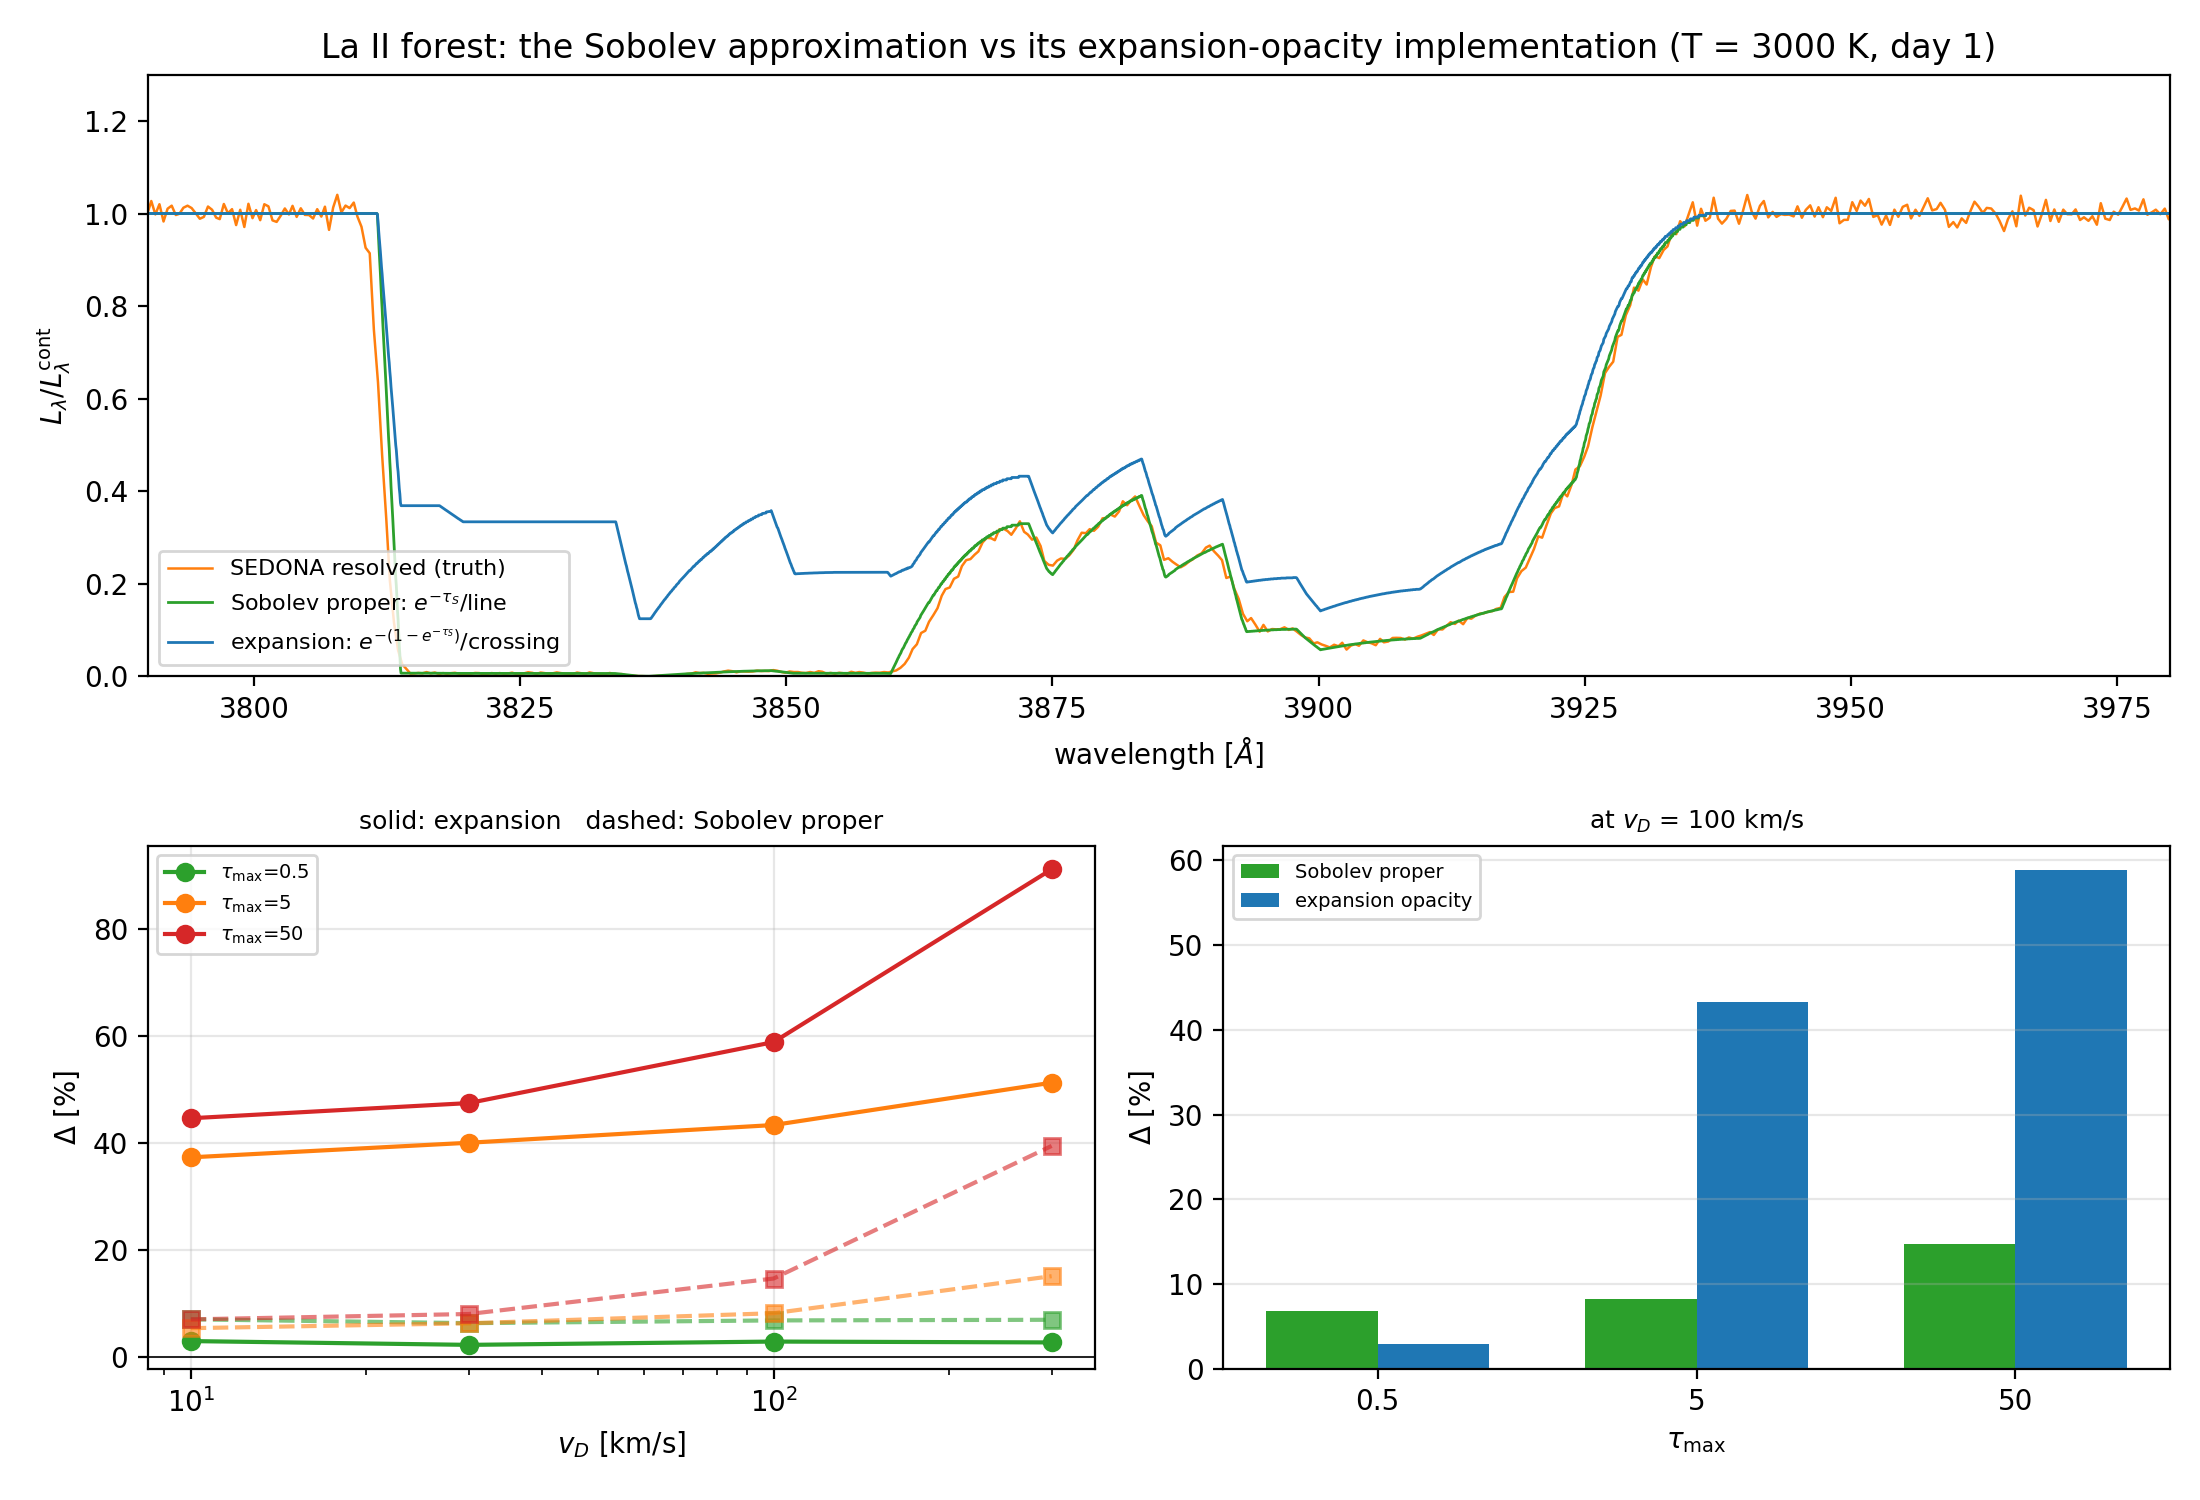
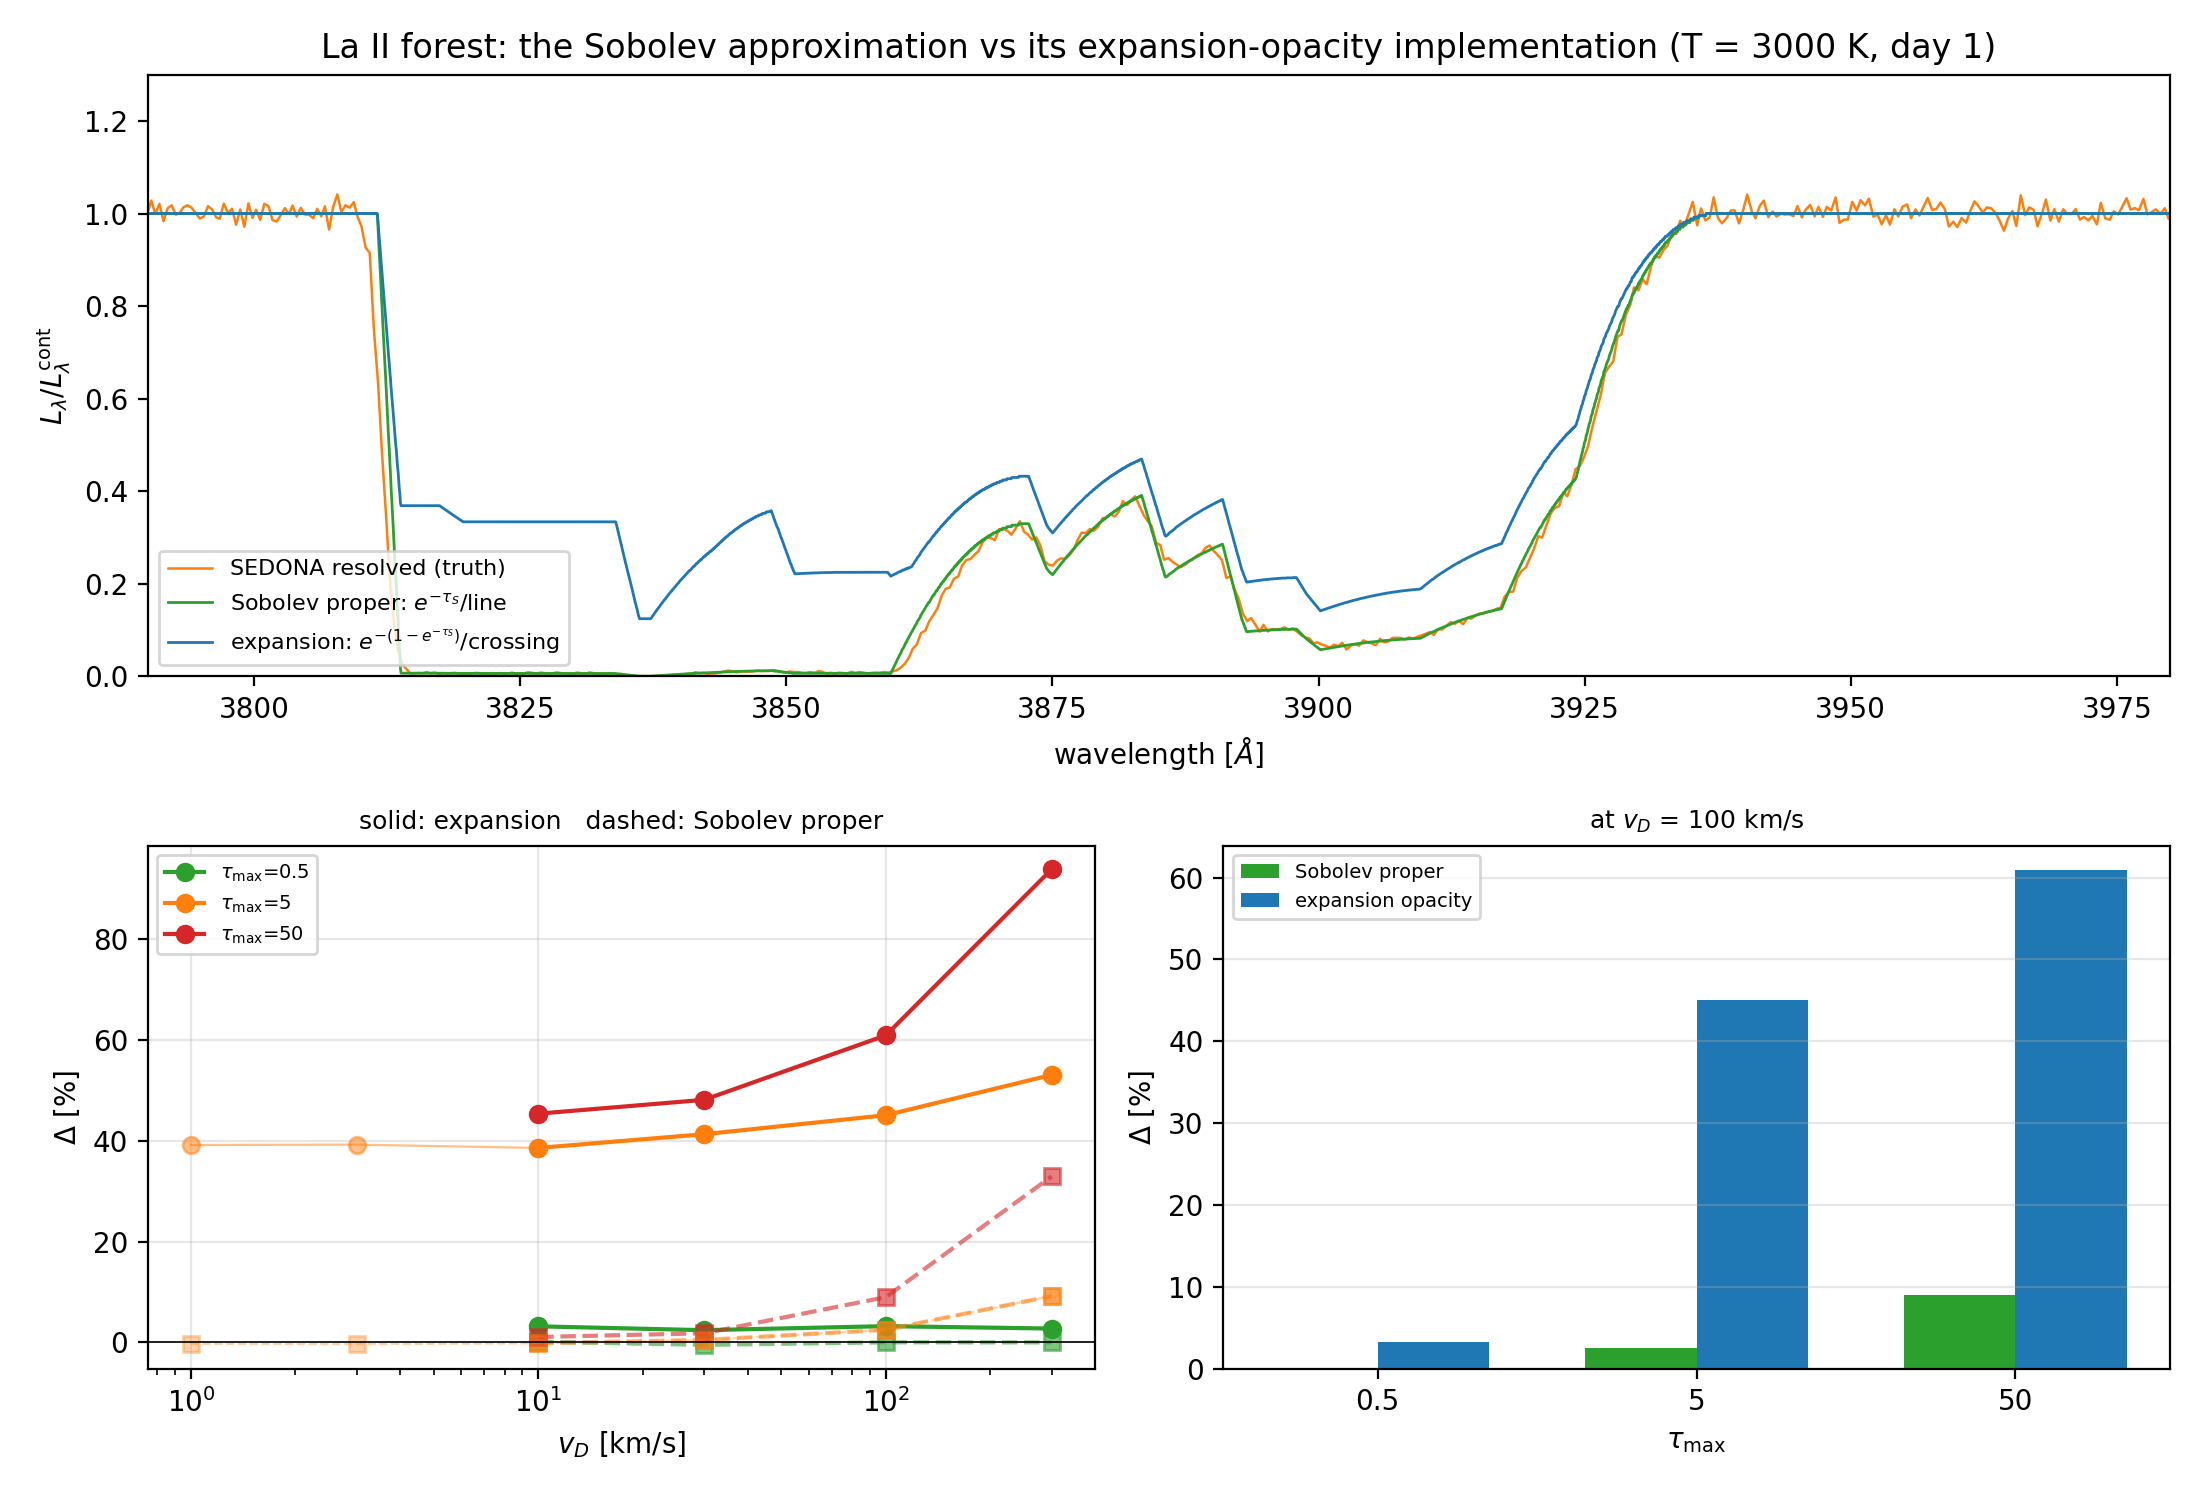
fix: Figure 10 was still plotting the retracted Sobolev floor
The figure showed the ~5-8% v_D-independent Sobolev error that Section 5
explicitly retracts as a normalization artifact -- printed opposite the
paragraph retracting it. Its dashed curves sat at 7-8% for all three
tau_max where the corrected values are +0.2%, -0.2%, +1.1%.

Root cause: compare.py built the figure by recomputing from
sweep_results.json, which is normalized by raw luminosity rather than
through sobolev.spectra.band_ratio. When recompute_all.py corrected the
numbers, the figure kept its own private copy of the wrong ones. Re-running
compare.py would also have silently overwritten separation_results.json with
pre-fix values.

Figure generation now lives in recompute_all.py next to the data it plots,
so the two cannot diverge; compare.py no longer writes either.

Also reconciled the two pipelines that produced the same measurement twice
with different values two pages apart. The temperature axis and the La II
forest three-leg table are now recomputed through the shared convention:

  validity map, Delta_exp at tau_max=5   was +37.3..+51.2  now +38.5..+53.0
  forest, SEDONA resolved                was 0.3426        now 0.3435
  forest, solver (emission off)          was 0.3390        now 0.3439

The last one matters: like for like, the two independent codes now agree to
0.1% on the La II forest rather than 1.0%, inside the measured Monte Carlo
noise. The old red margin straddled SEDONA's collapsing final bin -- the
same bug Section 8 documents.

diff --git a/experiments/sobolev_proper/recompute_all.py b/experiments/sobolev_proper/recompute_all.py
@@ -77,6 +77,24 @@ for vd, rb, re in ((1, "tsweep_T3000_vd1_bb", "tsweep_T3000_vd1_exp"),
                          d_sob=(f_sob5 - fb) / fb, d_exp=(fe - fb) / fb))
     print(f"{vd:4d} | {fb:10.4f} {(f_sob5-fb)/fb:+10.1%} {(fe-fb)/fb:+12.1%}")
 
+print("\n=== temperature axis (v_D = 100, strength pinned) ===")
+print("   T | F_resolved  D_expansion   old")
+# The T axis fed the validity map from tsweep_results.json, which was written
+# with the raw-luminosity normalization. D_exp is a same-code differential so
+# the bias largely cancels, but "largely" is not "exactly", and having one
+# table in the paper sourced from a different pipeline than the table beside
+# it is how the two disagreed by up to 2.7 points. Recompute it here.
+old_t = [x for x in old_all if x.get("axis") == "T"] if (
+    old_all := json.loads((FOREST / "tsweep_results.json").read_text())) else []
+t_axis = []
+for t in (2500, 3000, 4000, 5000):
+    fb_t, fe_t = sedona(f"tsweep_T{t}_bb"), sedona(f"tsweep_T{t}_exp")
+    o = [x for x in old_t if x["T"] == float(t)]
+    d = (fe_t - fb_t) / fb_t
+    t_axis.append(dict(T=t, v_d=100, f_res=fb_t, f_exp=fe_t, d_exp=d))
+    print(f"{t:5d} | {fb_t:10.4f} {d:+12.1%} {o[0]['delta_sob']:+8.1%}"
+          if o else f"{t:5d} | {fb_t:10.4f} {d:+12.1%}")
+
 # headline forest condition
 fb = sedona("run_bb"); fe = sedona("run_exp")
 print(f"\n=== La II forest headline (v_D = 100 km/s, tau_max = 5) ===")
@@ -85,6 +103,94 @@ print(f"  Sobolev proper   {f_sob5:.4f}   Delta = {(f_sob5-fb)/fb:+.1%}")
 print(f"  expansion        {fe:.4f}   Delta = {(fe-fb)/fb:+.1%}")
 
 (Path(__file__).parent / "separation_results.json").write_text(json.dumps(
-    dict(grid=rows, frontier=frontier,
+    dict(grid=rows, frontier=frontier, t_axis=t_axis,
          headline=dict(res=fb, sob=f_sob5, exp=fe)), indent=1))
 print("\nwrote separation_results.json")
+
+
+# ---------------------------------------------------------------------------
+# Figure, generated HERE from the numbers just computed.
+#
+# It used to live in compare.py, which recomputed everything from
+# sweep_results.json -- the pre-fix file normalized by raw luminosity. So when
+# this script corrected the numbers, the figure kept plotting the retracted
+# ~5-8% "v_D-independent Sobolev floor", and sat in the manuscript directly
+# opposite the paragraph retracting it. Nothing flagged the contradiction
+# because the figure had its own private copy of the data.
+#
+# The figure is therefore built from `rows`/`frontier` in this process. There
+# is no path by which it can disagree with separation_results.json again.
+# ---------------------------------------------------------------------------
+import matplotlib
+matplotlib.use("Agg")
+import matplotlib.pyplot as plt
+
+lam_grid = lam_an
+sob_la = sobolev_attenuation(nu, LINES, R_CORE, R_OUT, T_EXP, N_ION)
+exp_la = sobolev_attenuation(nu, LINES, R_CORE, R_OUT, T_EXP, N_ION,
+                             damp=expansion_damp)
+_, lam_bb, r_bb = band_ratio(FOREST / "run_bb" / "spectrum_1.dat", BAND,
+                             MARGIN, R_CORE, T_CORE, return_spectrum=True)
+
+fig = plt.figure(figsize=(11, 7.5))
+gs = fig.add_gridspec(2, 2, height_ratios=[1.15, 1])
+
+ax = fig.add_subplot(gs[0, :])
+ax.plot(lam_bb, r_bb, "C1", lw=0.9, label="SEDONA resolved (truth)")
+ax.plot(lam_grid, sob_la, "C2", lw=1.0,
+        label=r"Sobolev proper: $e^{-\tau_S}$/line")
+ax.plot(lam_grid, exp_la, "C0", lw=1.0,
+        label=r"expansion: $e^{-(1-e^{-\tau_S})}$/crossing")
+ax.set_xlim(3790, 3980)
+ax.set_ylim(0, 1.3)
+ax.set_xlabel(r"wavelength [$\AA$]")
+ax.set_ylabel(r"$L_\lambda/L_\lambda^{\rm cont}$")
+ax.set_title("La II forest: the Sobolev approximation vs its "
+             "expansion-opacity implementation (T = 3000 K, day 1)")
+ax.legend(fontsize=8, loc="lower left")
+
+ax2 = fig.add_subplot(gs[1, 0])
+for tau, color in [(0.5, "C2"), (5.0, "C1"), (50.0, "C3")]:
+    sel = sorted([r for r in rows if r["tau_max"] == tau],
+                 key=lambda r: r["v_d"])
+    ax2.semilogx([r["v_d"] for r in sel], [100 * r["d_exp"] for r in sel],
+                 "o-", color=color, label=rf"$\tau_{{\max}}$={tau:g}")
+    ax2.semilogx([r["v_d"] for r in sel], [100 * r["d_sob"] for r in sel],
+                 "s--", color=color, alpha=0.6)
+# The frontier extends the tau_max = 5 curves down to the thermal end.
+fr = sorted(frontier, key=lambda r: r["v_d"])
+ax2.semilogx([r["v_d"] for r in fr], [100 * r["d_exp"] for r in fr],
+             "o-", color="C1", alpha=0.5, lw=0.8)
+ax2.semilogx([r["v_d"] for r in fr], [100 * r["d_sob"] for r in fr],
+             "s--", color="C1", alpha=0.35, lw=0.8)
+ax2.set_xlabel(r"$v_D$ [km/s]")
+ax2.set_ylabel(r"$\Delta$ [%]")
+ax2.set_title("solid: expansion   dashed: Sobolev proper", fontsize=9)
+ax2.axhline(0, color="k", lw=0.6)
+ax2.legend(fontsize=7)
+ax2.grid(alpha=0.3)
+
+ax3 = fig.add_subplot(gs[1, 1])
+width, taus = 0.35, [0.5, 5.0, 50.0]
+at_100 = [next(r for r in rows if r["tau_max"] == t and r["v_d"] == 100)
+          for t in taus]
+x = np.arange(len(taus))
+ax3.bar(x - width / 2, [100 * r["d_sob"] for r in at_100], width,
+        color="C2", label="Sobolev proper")
+ax3.bar(x + width / 2, [100 * r["d_exp"] for r in at_100], width,
+        color="C0", label="expansion opacity")
+ax3.set_xticks(x)
+ax3.set_xticklabels([f"{t:g}" for t in taus])
+ax3.set_xlabel(r"$\tau_{\max}$")
+ax3.set_ylabel(r"$\Delta$ [%]")
+ax3.set_title(r"at $v_D$ = 100 km/s", fontsize=9)
+ax3.axhline(0, color="k", lw=0.6)
+ax3.legend(fontsize=7)
+ax3.grid(alpha=0.3, axis="y")
+
+fig.tight_layout()
+for out in (ROOT / "outputs" / "fig10_sobolev_vs_expansion.png",
+            ROOT / "docs/figures" / "fig10_sobolev_vs_expansion.png"):
+    out.parent.mkdir(parents=True, exist_ok=True)
+    fig.savefig(out, dpi=200)
+    print("saved", out)

diff --git a/experiments/sobolev_proper/compare.py b/experiments/sobolev_proper/compare.py
@@ -127,69 +127,23 @@ for r in sweep:
         f"D_exp_ana={rows[-1]['d_exp_ana']:+7.1%} D_exp_sed={rows[-1]['d_exp']:+7.1%}"
     )
 
-(Path(__file__).parent / "separation_results.json").write_text(
-    json.dumps(
-        dict(
-            la_forest=dict(res=F_res, sob=F_sob, exp=F_exp_sed),
-            blend=dict(res=Fm_res, sob=Fm_sob, exp=Fm_exp),
-            sweep=rows,
-        ),
-        indent=1,
-    )
-)
+# NOTE (P1-D): this script no longer writes separation_results.json, and no
+# longer draws Figure 10.
+#
+# It normalizes SEDONA band fluxes the old way -- by raw luminosity rather
+# than through sobolev.spectra.band_ratio -- which is the bug that
+# manufactured the retracted "v_D-independent Sobolev floor" of ~5-8%. When
+# recompute_all.py corrected the numbers, this file kept its own private copy
+# of the wrong ones, kept plotting them, and would have silently overwritten
+# separation_results.json with pre-fix values had anyone re-run it. The stale
+# figure sat in the manuscript directly opposite the paragraph retracting the
+# number it showed.
+#
+# recompute_all.py is the single source of truth for both the JSON and the
+# figure. This script is kept only for its spectrum overlay and blend
+# printout, which do not feed any published number.
+print("\n[compare.py writes no results file and no figure -- "
+      "run recompute_all.py for both]")
 
-# ---------------- figure ----------------
-fig = plt.figure(figsize=(11, 7.5))
-gs = fig.add_gridspec(2, 2, height_ratios=[1.15, 1])
-
-ax = fig.add_subplot(gs[0, :])
-ax.plot(lam_bb, r_bb, "C1", lw=0.9, label="SEDONA resolved (truth)")
-ax.plot(lam_grid, sob_la, "C2", lw=1.0, label=r"Sobolev proper: $e^{-\tau_S}$/line")
-ax.plot(lam_grid, exp_la, "C0", lw=1.0,
-        label=r"expansion: $e^{-(1-e^{-\tau_S})}$/crossing")
-ax.set_xlim(3790, 3980)
-ax.set_ylim(0, 1.3)
-ax.set_xlabel(r"wavelength [$\AA$]")
-ax.set_ylabel(r"$L_\lambda/L_\lambda^{\rm cont}$")
-ax.set_title(
-    "La II forest: the Sobolev approximation vs its expansion-opacity "
-    "implementation (T = 3000 K, day 1)"
-)
-ax.legend(fontsize=8, loc="lower left")
-
-ax2 = fig.add_subplot(gs[1, 0])
-for tau, color in [(0.5, "C2"), (5.0, "C1"), (50.0, "C3")]:
-    sel = sorted([r for r in rows if r["tau_max"] == tau], key=lambda r: r["v_d"])
-    ax2.semilogx([r["v_d"] for r in sel], [100 * r["d_exp"] for r in sel],
-                 "o-", color=color, label=rf"$\tau_{{\max}}$={tau:g}")
-    ax2.semilogx([r["v_d"] for r in sel], [100 * r["d_sob"] for r in sel],
-                 "s--", color=color, alpha=0.6)
-ax2.set_xlabel(r"$v_D$ [km/s]")
-ax2.set_ylabel(r"$\Delta$ [%]")
-ax2.set_title("solid: expansion   dashed: Sobolev proper", fontsize=9)
-ax2.axhline(0, color="k", lw=0.6)
-ax2.legend(fontsize=7)
-ax2.grid(alpha=0.3)
-
-ax3 = fig.add_subplot(gs[1, 1])
-width = 0.35
-taus = [0.5, 5.0, 50.0]
-at_100 = [next(r for r in rows if r["tau_max"] == t and r["v_d"] == 100.0) for t in taus]
-x = np.arange(len(taus))
-ax3.bar(x - width / 2, [100 * r["d_sob"] for r in at_100], width,
-        color="C2", label="Sobolev proper")
-ax3.bar(x + width / 2, [100 * r["d_exp"] for r in at_100], width,
-        color="C0", label="expansion opacity")
-ax3.set_xticks(x)
-ax3.set_xticklabels([f"{t:g}" for t in taus])
-ax3.set_xlabel(r"$\tau_{\max}$")
-ax3.set_ylabel(r"$\Delta$ [%]")
-ax3.set_title(r"at $v_D$ = 100 km/s", fontsize=9)
-ax3.axhline(0, color="k", lw=0.6)
-ax3.legend(fontsize=7)
-ax3.grid(alpha=0.3, axis="y")
-
-fig.tight_layout()
-out = ROOT / "outputs" / "fig10_sobolev_vs_expansion.png"
-fig.savefig(out, dpi=200)
-print("saved", out)
+# The figure that used to be built here now lives in recompute_all.py, next
+# to the data it plots. See the note above.

diff --git a/experiments/laII_forest/recompute_forest.py b/experiments/laII_forest/recompute_forest.py
@@ -1,0 +1,79 @@
+"""Recompute the La II forest three-leg table through the SHARED convention.
+
+The numbers in the manuscript's forest table and in its thermal-emission (F8)
+section were produced by compare.py, which predates sobolev.spectra and
+carries two of the three normalization bugs this project has since found:
+
+  * its red margin is 3952-3978 A, which straddles SEDONA's final spectrum
+    bin -- that bin is partial, its flux collapses, and including it depresses
+    the reference and inflates every band value (the bug of Section 4.9);
+  * it band-averages by dividing by the NOMINAL band width rather than the
+    span actually integrated.
+
+The result was a forest table quoting SEDONA resolved = 0.3426 while the
+separation section, computed through the shared helper, quoted 0.3435 for the
+identical run -- the same measurement printed twice with different values two
+pages apart.
+
+This script recomputes all three legs, plus the F8 emission-off comparison,
+through sobolev.spectra so that every forest number in the paper comes from
+one pipeline. No new transport runs.
+"""
+
+import json
+import sys
+from pathlib import Path
+
+import numpy as np
+
+HERE = Path(__file__).parent
+ROOT = HERE.parents[1]
+sys.path.insert(0, str(ROOT))
+from sobolev.constants import C
+from sobolev.formal_transfer import emergent_luminosity, planck_bnu
+from sobolev.spectra import band_average, band_ratio
+
+T_EXP, R_CORE, R_OUT, T_CORE, T_SHELL = 86400.0, 8.64e12, 2.592e13, 6000.0, 3000.0
+V_D = 1.0e7
+BAND, MARGIN = (3800.0, 3955.0), (3952.0, 3970.0)
+
+d = np.load(HERE / "forest_lines.npz")
+N_ION = float(d["n_ion"])
+LINES = [(C / (lam * 1e-8), f, p)
+         for lam, f, p in zip(d["lam"], d["f_lu"], d["pop"])]
+
+
+def solver(t_shell):
+    """Deterministic resolved leg, band-averaged the shared way."""
+    nu = np.geomspace(7.50e14, 7.95e14, 1600)
+    lum = emergent_luminosity(
+        nu, LINES, lambda r: np.full_like(r, N_ION),
+        lambda r: np.full_like(r, t_shell),
+        T_EXP, R_CORE, R_OUT, T_CORE, V_D, n_impact=150,
+    )
+    ratio = lum / (4.0 * np.pi**2 * R_CORE**2 * planck_bnu(nu, T_CORE))
+    return band_average(C / nu * 1e8, ratio, BAND)
+
+
+res = band_ratio(HERE / "run_bb" / "spectrum_1.dat", BAND, MARGIN,
+                 R_CORE, T_CORE)
+exp = band_ratio(HERE / "run_exp" / "spectrum_1.dat", BAND, MARGIN,
+                 R_CORE, T_CORE)
+sol_warm = solver(T_SHELL)
+sol_cold = solver(0.0)
+
+print("=== La II forest, T=3000 K, day 1, v_D=100 km/s, 3800-3955 A ===")
+print(f"  deterministic solver (S = B_nu(T_shell))  {sol_warm:.4f}"
+      f"   vs SEDONA {(sol_warm - res) / res:+.1%}")
+print(f"  deterministic solver (T_shell -> 0)       {sol_cold:.4f}"
+      f"   vs SEDONA {(sol_cold - res) / res:+.1%}")
+print(f"  SEDONA resolved                           {res:.4f}")
+print(f"  SEDONA expansion opacity                  {exp:.4f}")
+print(f"  Delta_expansion                           {(exp - res) / res:+.1%}")
+
+out = dict(res=res, exp=exp, solver_warm=sol_warm, solver_cold=sol_cold,
+           d_exp=(exp - res) / res,
+           d_solver_warm=(sol_warm - res) / res,
+           d_solver_cold=(sol_cold - res) / res)
+(HERE / "forest_table.json").write_text(json.dumps(out, indent=1))
+print("\nwrote forest_table.json")
